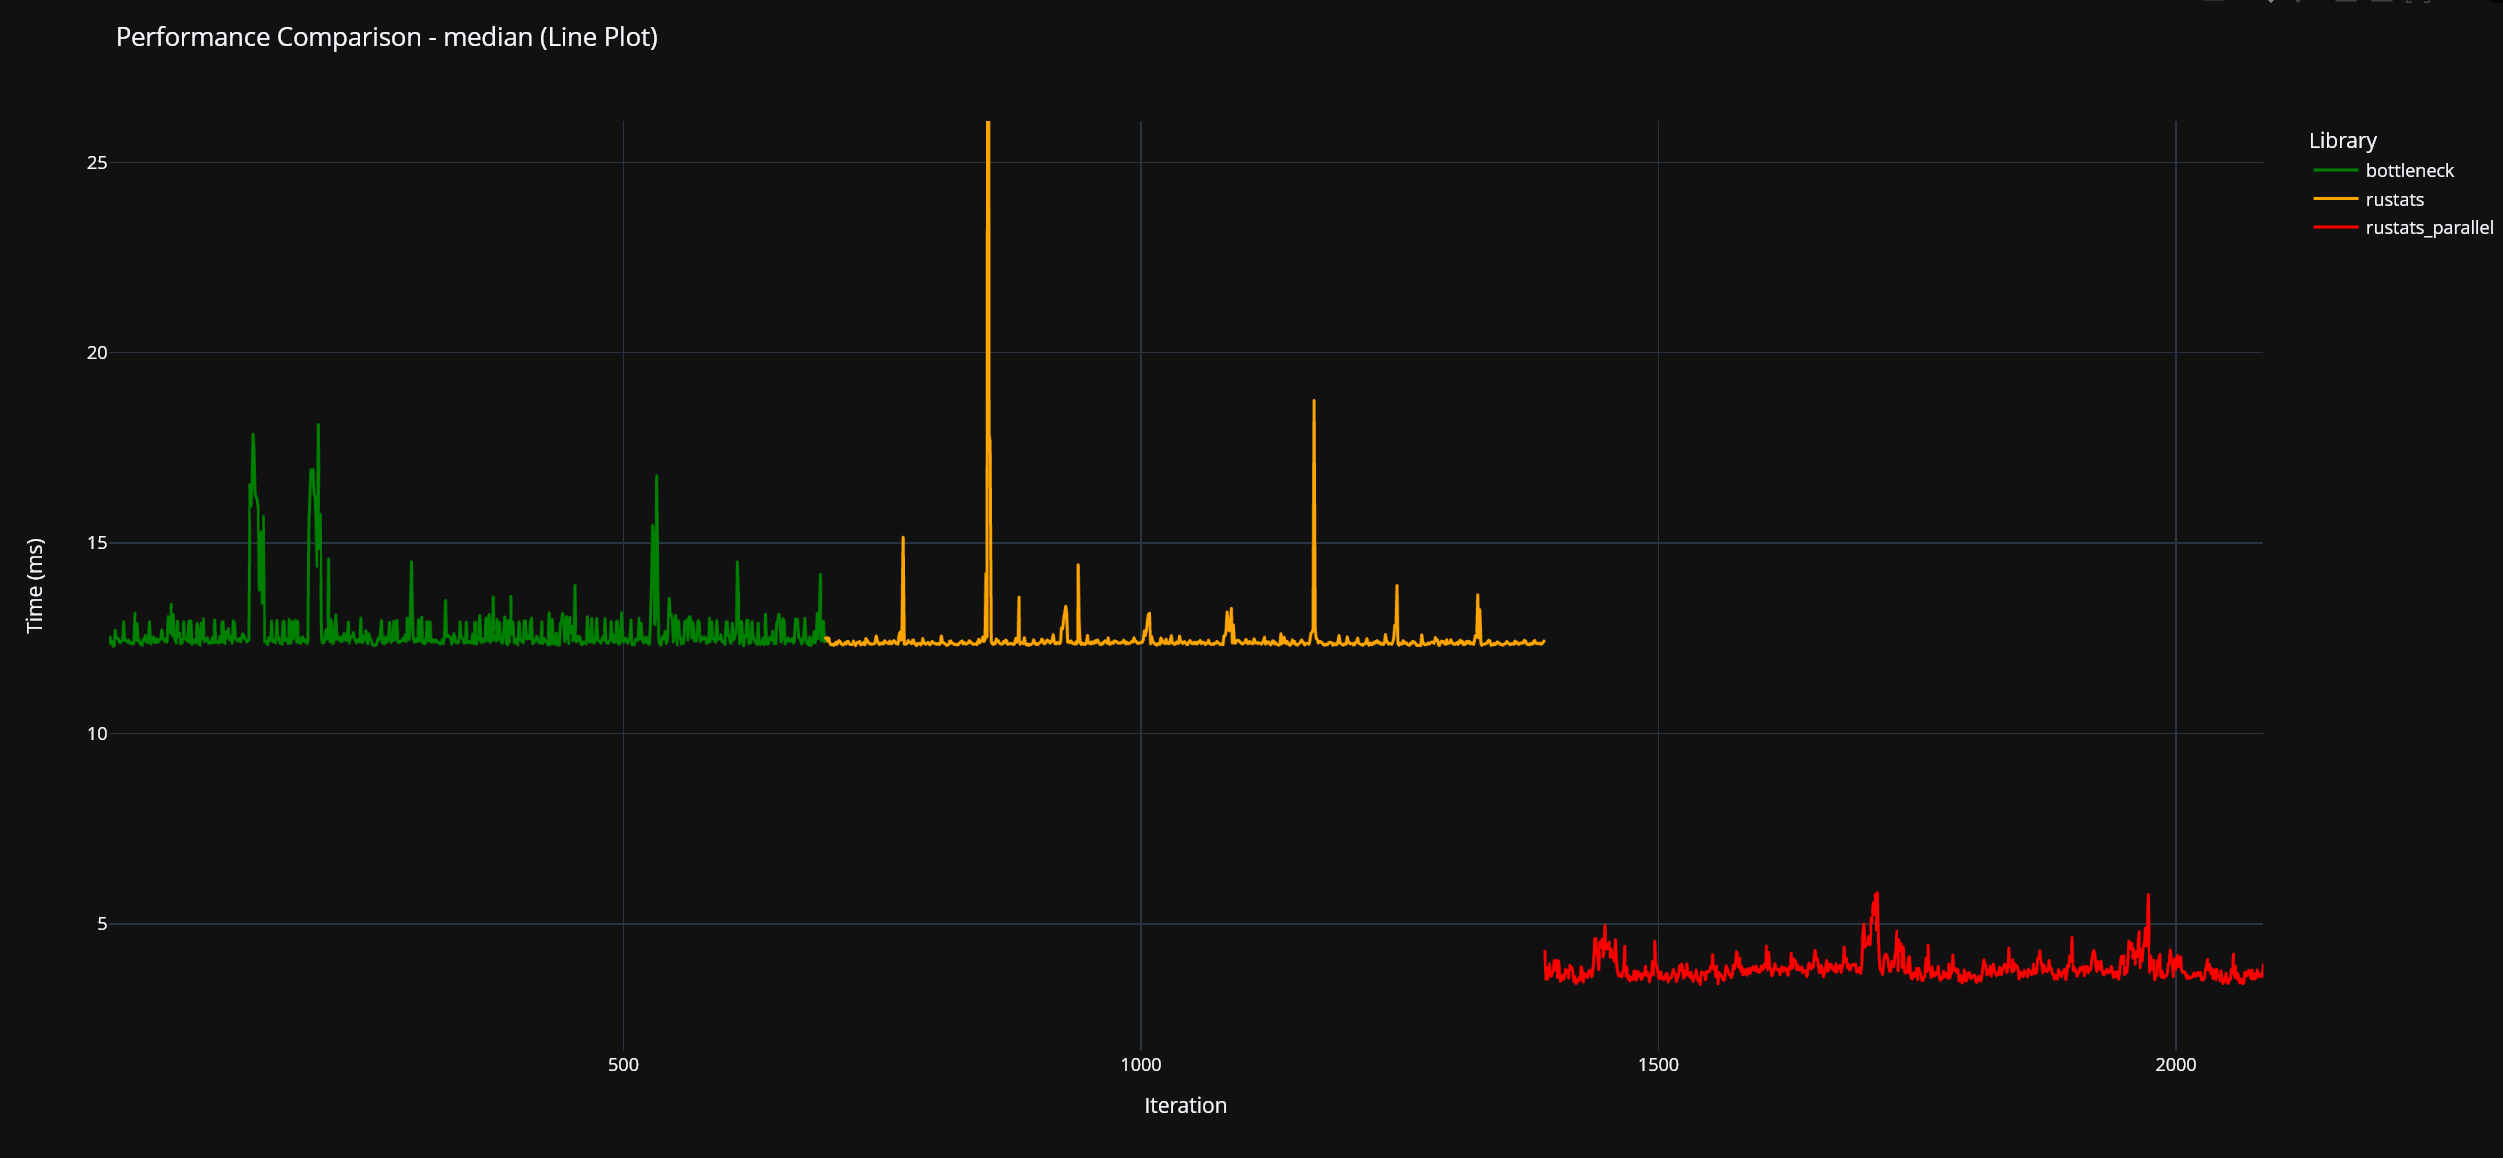
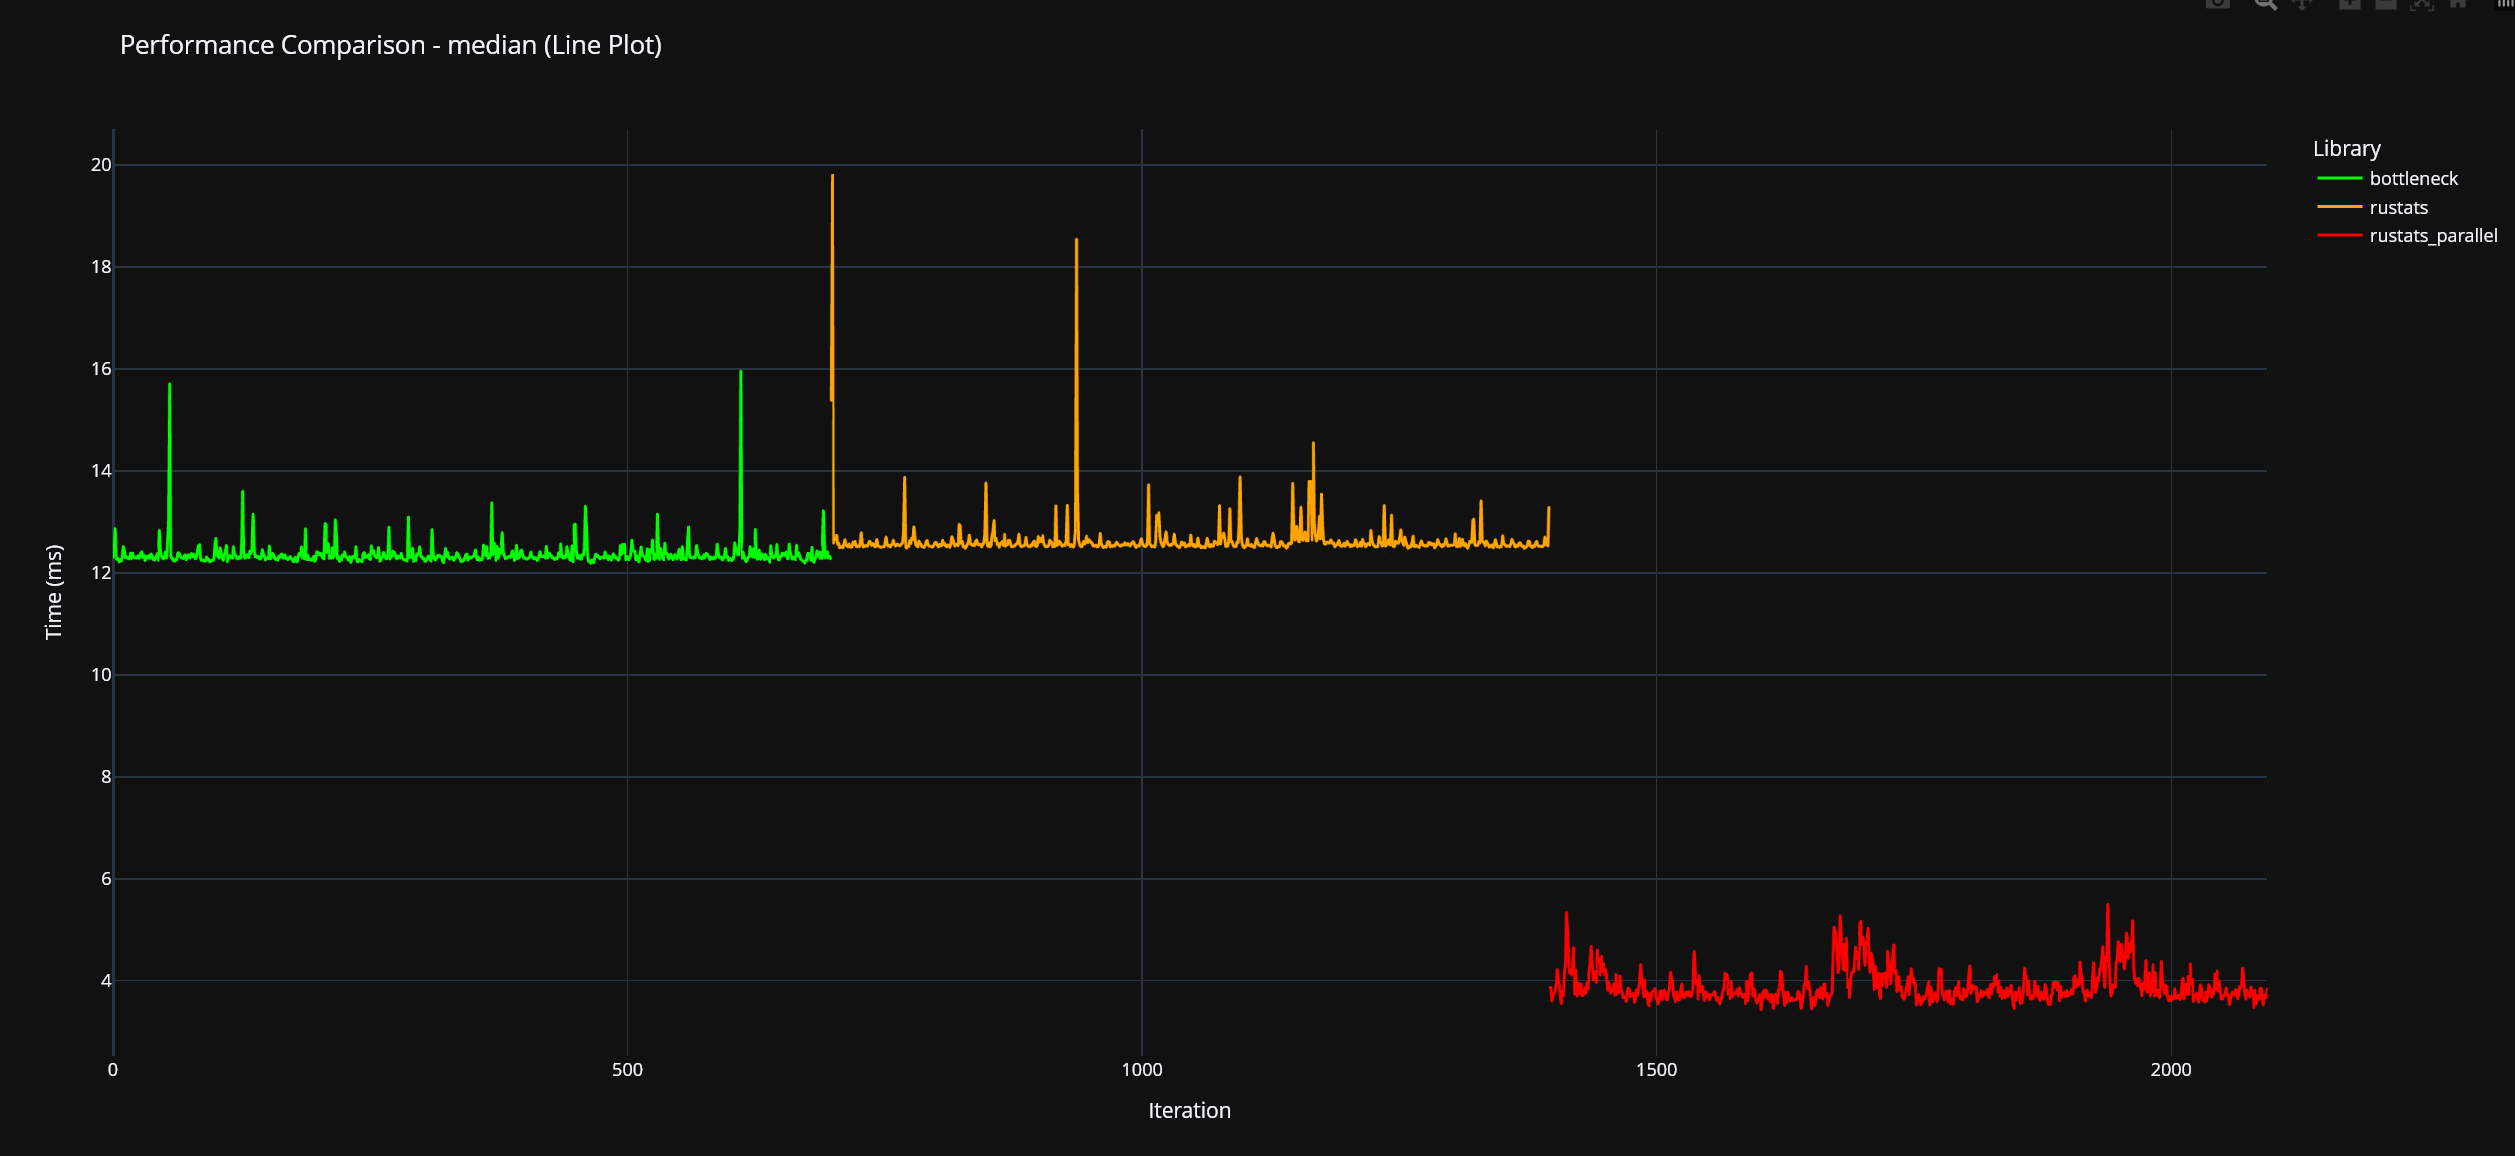
updated readme and color styling

diff --git a/tests/structs.py b/tests/structs.py
@@ -31,15 +31,15 @@ class Library(StrEnum):
 
 
 COLORS: dict[Library, str] = {
-    Library.RUSTATS: "orange",
+    Library.RUSTATS: "yellow",
     Library.RUSTATS_PARALLEL: "red",
-    Library.NUMBAGG: "blue",
+    Library.NUMBAGG: "cyan",
     Library.BOTTLENECK: "lime",
 }
 
 COLORS_BENCH: dict[Library, str] = {
     Library.BN_BENCH: "lime",
-    Library.NBG_BENCH: "blue",
+    Library.NBG_BENCH: "cyan",
 }
 
 StatType = Literal[

diff --git a/README.md b/README.md
@@ -35,7 +35,7 @@ Ensure you select the rigth .venv.
 & C:/Users/tibo/python_codes/rustats/tests/.venv/Scripts/Activate.ps1 # for testing
 ````
 
-![alt text](docs/image.png)
+![alt text](docs/environnements.png)
 
 - First one is for maturin, you don't care very much about it
 - Always select the second one
@@ -44,12 +44,11 @@ Ensure you have 2 powershell terminals, one in rustats, the other in rustats\tes
 
 ![alt text](docs/terminals.png)
 
-When testing, you will be asked to prompt: 
-- the group you want to test
-- the optionnal results exactitude check
-- the benchmark time target.
+When testing, you'll be able to choose wether launching a global test, or a benchmark for a specific group. 
 
-Once the test is run, you can check the stats and results correctness against benchmarks (bottleneck and numbagg).
+You can specify a time duration target (for quick tests flexibility), wether it's a global or specific test. 
+
+The number of functions call will be adjusted accordingly
 
 Currently the distribution plots are filtered to exclude +95th percentile times.
 
@@ -57,29 +56,41 @@ Currently the distribution plots are filtered to exclude +95th percentile times.
 
 ````
 (tests) PS C:\Users\tibo\python_codes\rustats\tests> python main.py
-enter the group to test: median
-write 'y' if you want to check the results of this group, press enter to skip:y
+
+--- Menu ---
+1. Perform a global performance test for all groups
+2. Test performance for a specific group
+3. Check results for a specific group
+4. Exit
+Enter your choice (1-4): 2
+Enter the group to test: median
 write the time target in seconds, press enter for 20 seconds default:
-Timing median - rustats_parallel: 100%|███████████| 2085/2085 [00:20<00:00, 102.90it/s]
+Timing median - rustats_parallel: 100%|███████████████████████████████████████████████████████████████████████████████████████████████████████| 2094/2094 [00:20<00:00, 103.49it/s]
 ````
 
 #### Output
 
 ##### Checking exactitude
 
-![alt text](docs/image-4.png)
 
 ##### Boxplot performance comparison
 
-![alt text](docs/image-3.png)
+![alt text](docs/box_bench.png)
 
 ##### Violins performance comparison
 
-![alt text](docs/image-5.png)
+![alt text](docs/violin_bench.png)
 
 #### Visualizing each iteration time
 
 ![alt text](docs/iterations_times.png)
+
+#### With global test
+
+![alt text](docs/global_hist.png)
+![alt text](docs/benchmarks.png)
+
+### Saved data
 
 You can check in tests\benchmark_summary.ndjson what was the actual nb of passes for the last run (WIP)
 
